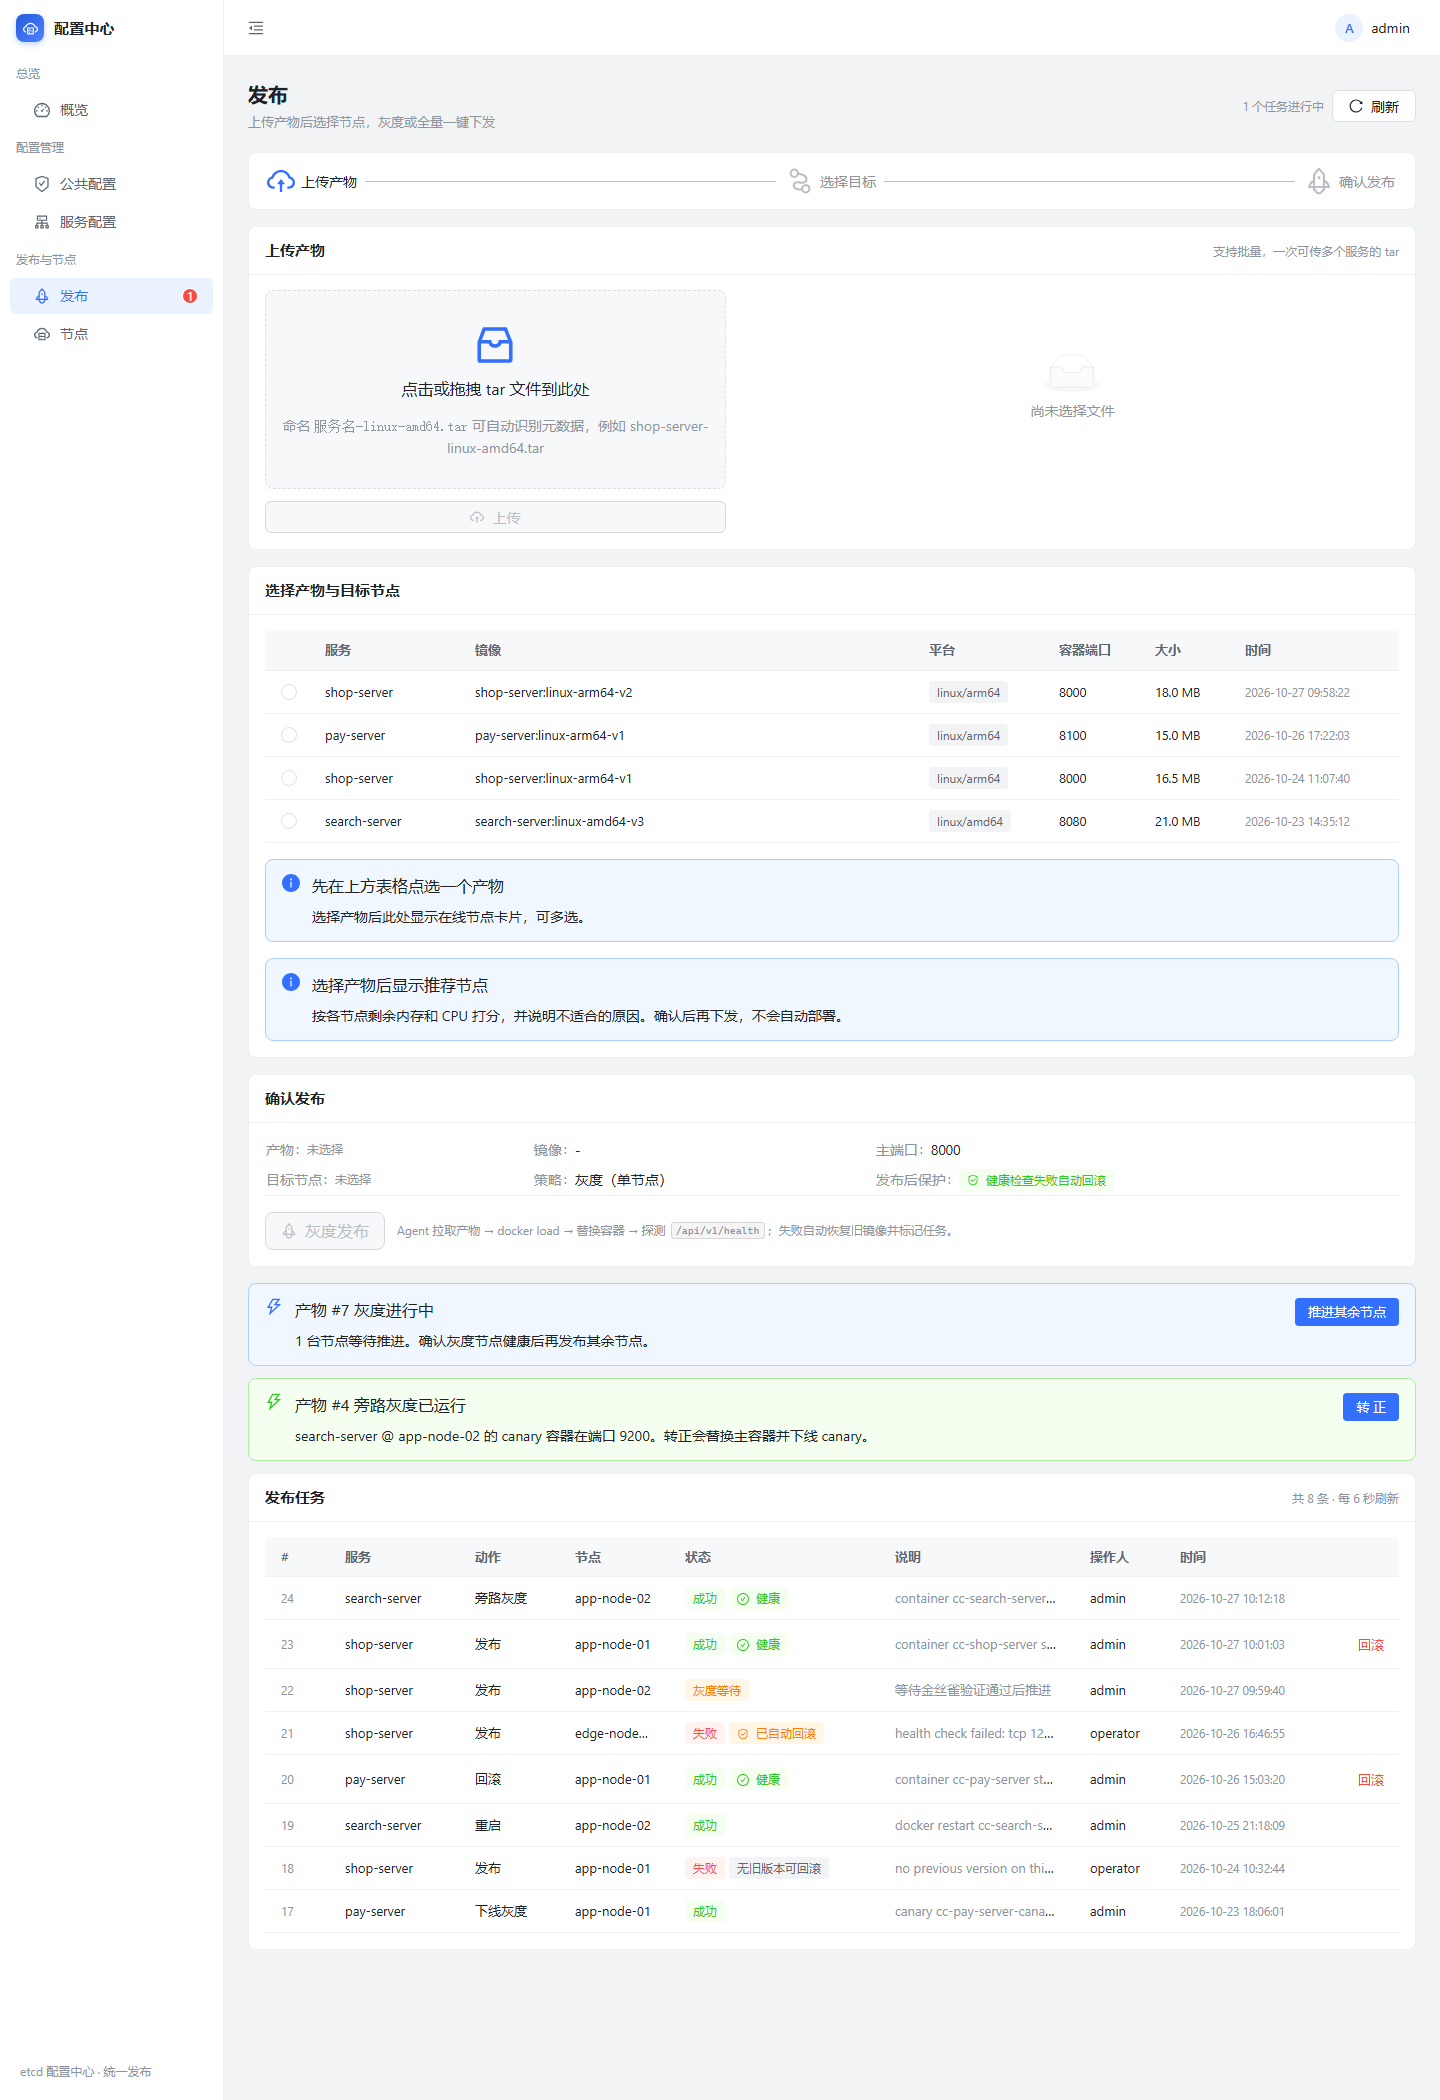
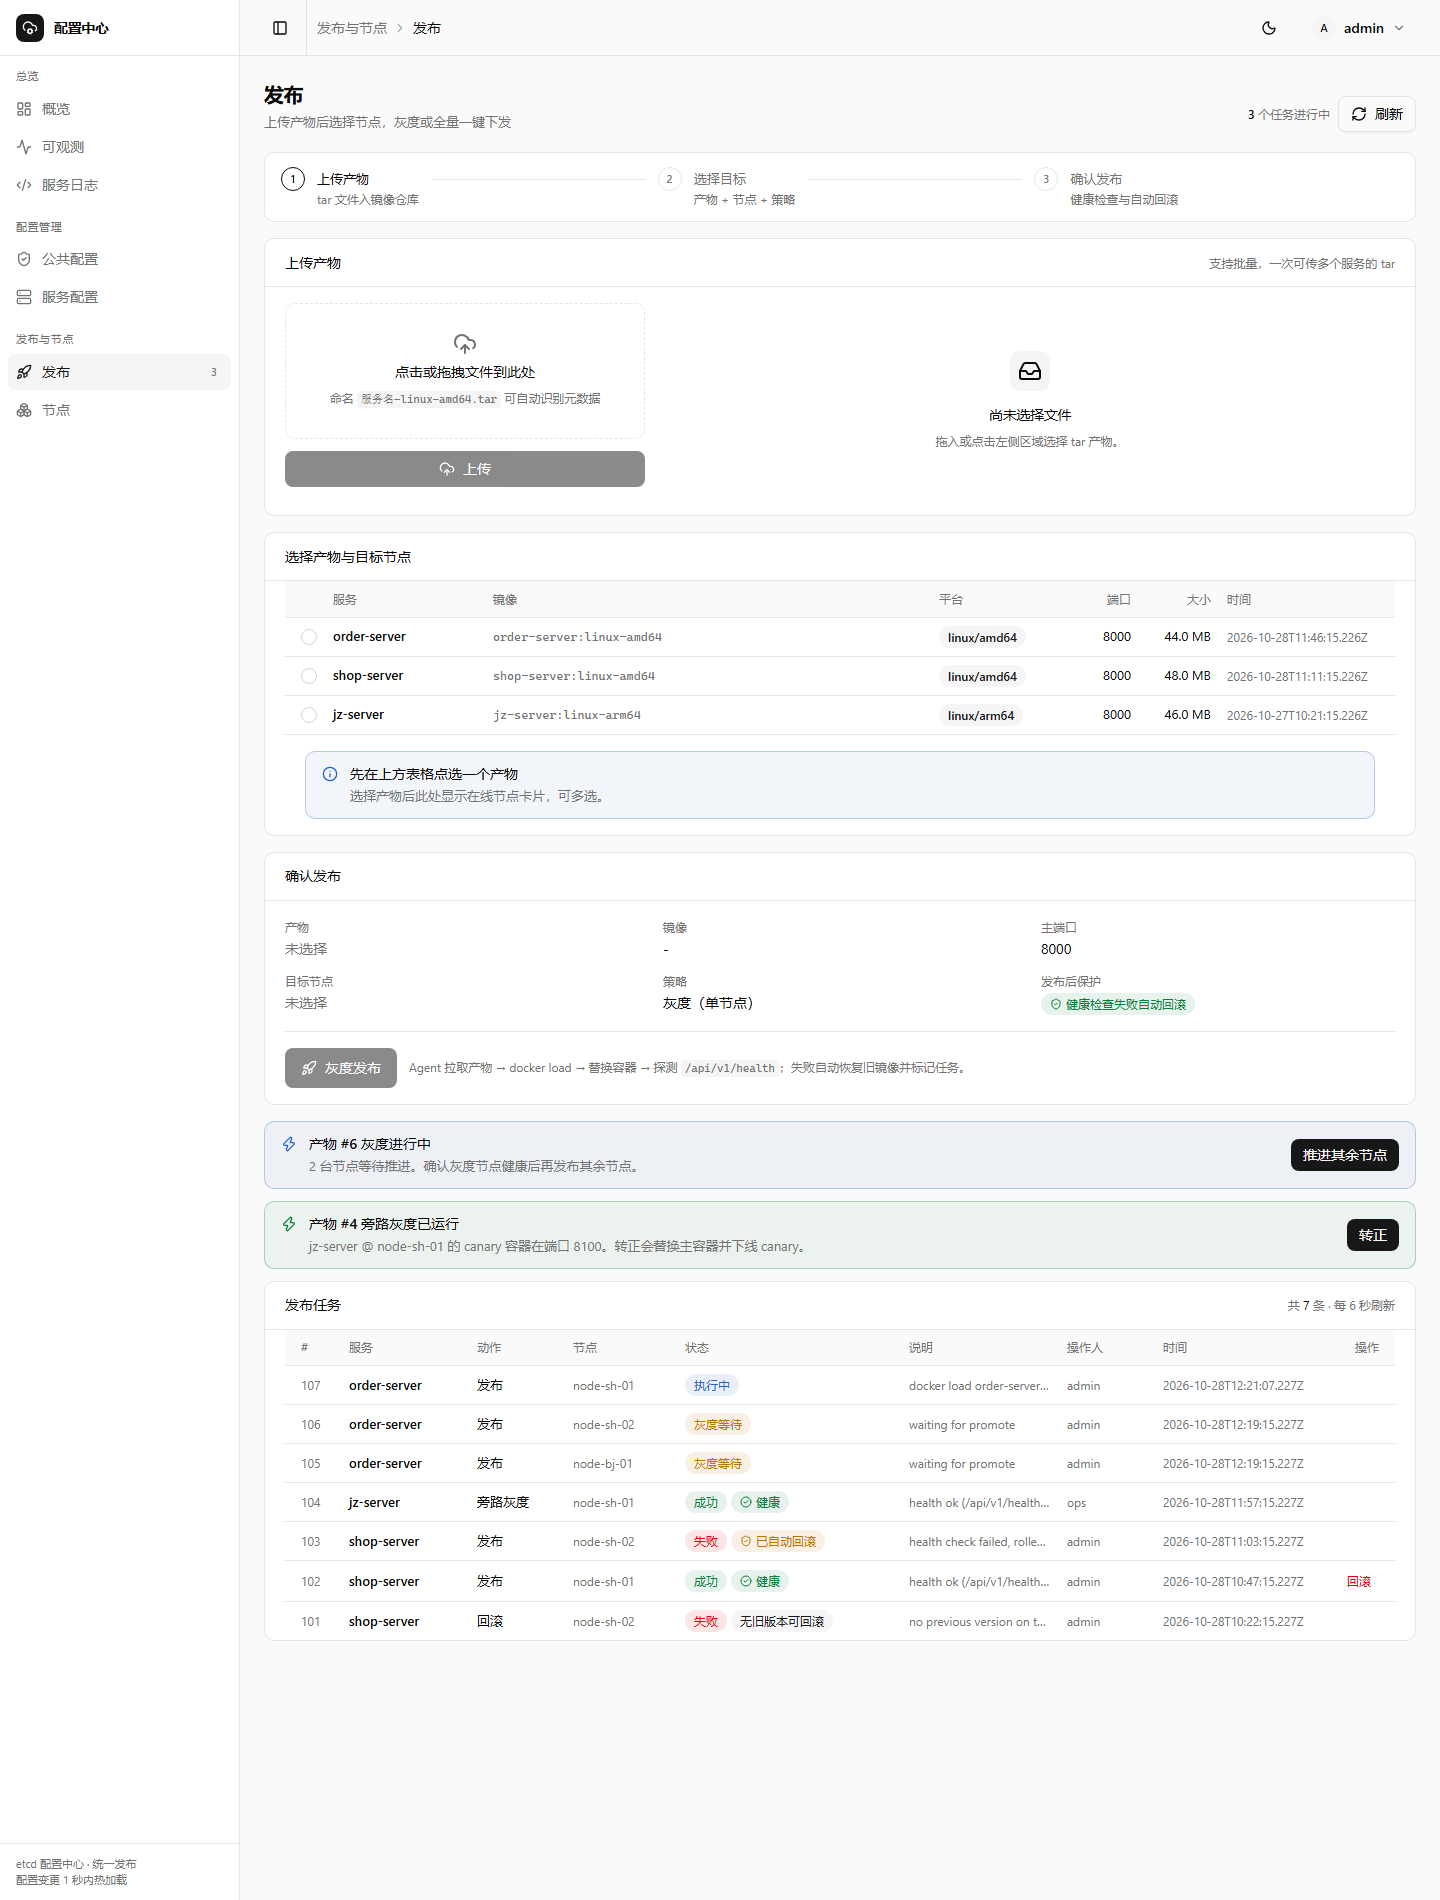
docs(web): 更新 shadcn 界面截图与可观测/服务日志说明

diff --git a/docs/02-reference/web-console.md b/docs/02-reference/web-console.md
@@ -6,9 +6,9 @@
 
 ## 界面一览
 
-> 以下截图由本地 mock 后端渲染，**服务名、节点、镜像、时间、账号都是虚构数据**，只用于展示界面与交互，不来自任何真实环境。
+> 以下页面截图由本地 mock 后端 + 当前 shadcn/ui 前端渲染，**服务名、节点、镜像、时间、账号都是虚构数据**，只用于展示界面与交互，不来自任何真实环境。
 >
-> **截图对应迁移前的 antd 版本**：界面结构、文案与交互一致，配色已换为中性灰阶 + 近黑主色，并支持亮/暗双主题。新 UI 的截图待有后端环境时重拍。
+> 中台支持亮 / 暗双主题，暗色示例见 [亮 / 暗主题](#亮暗主题)。
 
 ### 登录
 
@@ -21,6 +21,18 @@
 ![概览](../assets/screenshots/overview.png)
 
 四个指标卡分别是 etcd 连通状态、公共配置数量、服务配置数量、在线节点数（`last_seen < 45s` 记为在线）。右侧「最近发布任务」直接读发布任务表，把探针回写的英文 message 翻成中文说明；左下「常用操作」是三个高频入口的快捷跳转。「写入 seed」只补 etcd 里缺失的 key，「强制覆盖」会用 `manifest/etcd-seed` 整体重写，后者仅 `admin` 可执行。页面每 15 秒自动刷新一次。
+
+### 可观测
+
+![可观测](../assets/screenshots/observability.png)
+
+四个指标卡是请求总数（含 RPS 与处理中）、错误率、P95 延迟与日志缓冲；中间是最近 30 分钟请求量柱状图（红点为 5xx），下方是 Top 路由；右栏是状态码分布与 Go 运行时。底部深色面板是 SSE 实时日志，支持级别 / 来源 / 服务过滤、关键字高亮、暂停、清空和回到最新；指标每 10 秒刷新一次。
+
+### 服务日志
+
+![服务日志](../assets/screenshots/service-logs.png)
+
+左侧按服务聚合（在线 / 离线、累计条数、最近输出），右侧是 `tail -f` 风格的终端：级别过滤、关键字高亮、暂停 / 继续、清空、下载当前视图、全屏；离开底部后会出现「回到最新」。
 
 ### 公共配置
 
@@ -76,15 +88,21 @@
 
 选定产物后按各节点剩余资源打分（`0.4 × CPU 空闲 + 0.6 × 内存空闲`），并逐台给出不适合的原因——例如端口已被占用、探针离线。「部署到推荐节点」只是把选择结果填进表单，**不会自动下发**，仍需回到「确认发布」人工点一次。
 
+### 亮暗主题
+
+![暗色主题](../assets/screenshots/theme-dark.png)
+
+顶栏右上角的太阳 / 月亮按钮切换主题，选择写入 `localStorage['cc-theme']`，首次访问跟随系统。两套值都在 `web/src/index.css` 的 `:root` / `.dark` 里，组件只消费语义 token；日志控制台在两种主题下都保持深色。
+
 ### 这些截图是怎么来的
 
-用一个只监听 `127.0.0.1` 的临时 mock API 顶替 `configure-server`，前端代码与真实运行时完全一致；截图工具链本身不入库，重新生成时需要三样东西：
+用一个只监听 `127.0.0.1` 的临时 mock API 顶替 `configure-server`，前端代码与真实运行时完全一致；截图工具链不入库，重新生成需要三样东西：
 
-1. **mock 后端**：按 [HTTP API 参考](api.md) 的响应包 `{ code, message, data }` 返回虚构数据即可，端口随意，只要代理指过去。
-2. **注入脚本**：往 `index.html` 的 `<head>` 前面塞一段脚本，写 `localStorage['configure-center.token']` 伪造登录态，再按 URL 参数 `?shot=` 点开对应的弹窗 / 抽屉。
-3. **headless Chrome**：`--headless=new --window-size=1440,1000 --virtual-time-budget=45000 --screenshot=out.png <url>`。
+1. **mock 后端**：按 [HTTP API 参考](api.md) 的响应包 `{ code, message, data }` 返回虚构数据，端口与 Vite 代理一致（9000）。
+2. **注入脚本**：临时放一个 `public/__shot.html`，写入 `localStorage['configure-center.token']` 与 `cc-theme` 后 `location.replace()` 到目标路由；截完删除。
+3. **headless Chrome + CDP**：`--headless=new --remote-debugging-port=0`，用 `Emulation.setDeviceMetricsOverride` 固定 1440×900 / 390×844，真实等待 4–5s 后 `Page.captureScreenshot`。比 `--virtual-time-budget` 稳，SSE 长连接不会把截图卡住。
 
-两个坑值得记一下：
+如果改用 `--virtual-time-budget`，两个坑值得记一下：
 
 - `--virtual-time-budget` 会把 Radix + `tw-animate-css` 的入场动画冻在 `data-state="open"` 的首帧（`opacity: 0`），弹窗、抽屉、下拉全是透明遮罩。截图前需要强制 `[data-slot="dialog-content"], [data-slot="sheet-content"], [data-slot="dropdown-menu-content"] { animation: none !important; opacity: 1 !important }`；退场同理要强制 `opacity: 0`，否则关掉的菜单会留在画面上。
 - 断点与暗色由 `class="dark"` 和媒体查询驱动：`index.html` 的内联脚本会读 `localStorage['cc-theme']`，没写过时跟随 `prefers-color-scheme`。截图机器如果是暗色系统，先写入 `cc-theme=light` 再刷新，否则拿到的是暗色图。

diff --git a/README.md b/README.md
@@ -8,12 +8,14 @@
 
 ## 界面一览
 
+中台前端基于 **shadcn/ui（Radix + Tailwind CSS 4）**，支持亮 / 暗双主题；下面截图来自当前版本。
+
 | | |
 |:--:|:--:|
 | **概览**<br><img src="docs/assets/screenshots/overview.png" width="480" alt="概览：配置源状态、接入规模与最近发布任务"> | **服务配置**<br><img src="docs/assets/screenshots/services.png" width="480" alt="服务配置：每个服务一张卡片，直接渲染当前 YAML"> |
 | **发布**<br><img src="docs/assets/screenshots/deploys.png" width="480" alt="发布：上传 tar、选节点、灰度/全量、回滚"> | **节点**<br><img src="docs/assets/screenshots/nodes.png" width="480" alt="节点：deploy-agent 上报的机器与容器"> |
 
-全部 11 张截图与逐页说明见 [中台前端 · 界面一览](./docs/02-reference/web-console.md#界面一览)。截图由本地 mock 后端渲染，**服务名、节点、镜像、时间均为虚构数据**。
+全部 13 张截图与逐页说明见 [中台前端 · 界面一览](./docs/02-reference/web-console.md#界面一览)。截图由本地 mock 后端渲染，**服务名、节点、镜像、时间均为虚构数据**；暗色示例见 [亮 / 暗主题](./docs/02-reference/web-console.md#亮暗主题)。
 
 ## 文档
 
@@ -117,6 +119,13 @@ svc:
 - 发布后 TCP + HTTP 健康探测，失败自动回滚旧镜像
 - 节点资源指标与部署推荐（按剩余内存和 CPU 打分，推荐不自动下发）
 - 容器启停重启、镜像回滚、配置回滚各自独立
+
+**可观测**
+
+- 请求量 / RPS / 错误率 / P95、30 分钟流量图、状态码分布与 Top 路由
+- Go 运行时指标（goroutine、堆内存、GC、uptime）
+- SSE 实时日志控制台：级别 / 来源 / 服务过滤、关键字高亮、暂停、清空、回到最新
+- 服务日志页：按服务聚合、全屏、下载、自动跟随
 
 **明确不提供**
 
